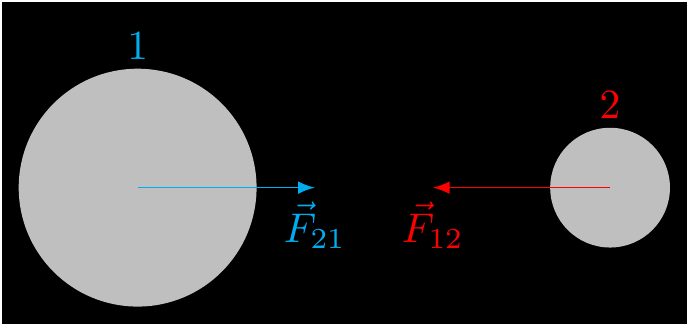
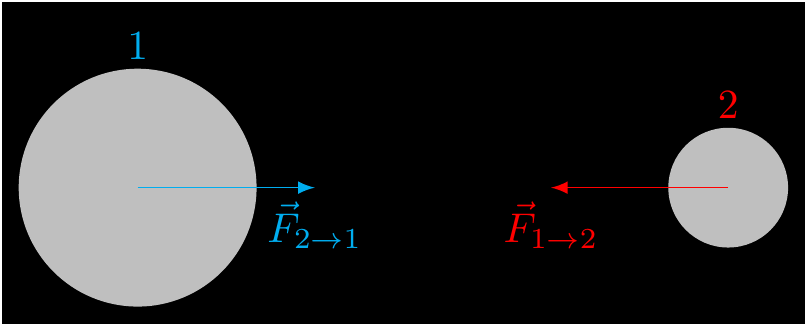
adding arrow notation

diff --git a/mechanics/actio-reactio/actio-reactio_inverted.tex b/mechanics/actio-reactio/actio-reactio_inverted.tex
@@ -14,11 +14,11 @@
 
 \begin{document}
 \begin{tikzpicture}[inverted,inverted]
-  \draw[gray!50,fill] (-2,0) circle (1)   coordinate (c1);
-  \draw[gray!50,fill] (+2,0) circle (0.5) coordinate (c2);
+  \draw[gray!50,fill] (-2.5,0) circle (1)   coordinate (c1);
+  \draw[gray!50,fill] (+2.5,0) circle (0.5) coordinate (c2);
   \node[blue,yshift=1.2cm] at (c1) {1};
   \node[red, yshift=0.7cm] at (c2) {2};
-  \draw[->,blue] (c1) -- ++(+1.5,0) node[below] {$\vec{F}_{21}$};
-  \draw[->,red]  (c2) -- ++(-1.5,0) node[below] {$\vec{F}_{12}$};
+  \draw[->,blue] (c1) -- ++(+1.5,0) node[below] {$\vec{F}_{2\to 1}$};
+  \draw[->,red]  (c2) -- ++(-1.5,0) node[below] {$\vec{F}_{1\to 2}$};
 \end{tikzpicture}
 \end{document}

diff --git a/mechanics/actio-reactio/actio-reactio.tex b/mechanics/actio-reactio/actio-reactio.tex
@@ -5,11 +5,11 @@
 
 \begin{document}
 \begin{tikzpicture}
-  \draw[gray!50,fill] (-2,0) circle (1)   coordinate (c1);
-  \draw[gray!50,fill] (+2,0) circle (0.5) coordinate (c2);
+  \draw[gray!50,fill] (-2.5,0) circle (1)   coordinate (c1);
+  \draw[gray!50,fill] (+2.5,0) circle (0.5) coordinate (c2);
   \node[blue,yshift=1.2cm] at (c1) {1};
   \node[red, yshift=0.7cm] at (c2) {2};
-  \draw[->,blue] (c1) -- ++(+1.5,0) node[below] {$\vec{F}_{21}$};
-  \draw[->,red]  (c2) -- ++(-1.5,0) node[below] {$\vec{F}_{12}$};
+  \draw[->,blue] (c1) -- ++(+1.5,0) node[below] {$\vec{F}_{2\to 1}$};
+  \draw[->,red]  (c2) -- ++(-1.5,0) node[below] {$\vec{F}_{1\to 2}$};
 \end{tikzpicture}
 \end{document}

diff --git a/mechanics.md b/mechanics.md
@@ -9,12 +9,12 @@
 
 \begin{document}
 \begin{tikzpicture}
-  \draw[gray!50,fill] (-2,0) circle (1)   coordinate (c1);
-  \draw[gray!50,fill] (+2,0) circle (0.5) coordinate (c2);
+  \draw[gray!50,fill] (-2.5,0) circle (1)   coordinate (c1);
+  \draw[gray!50,fill] (+2.5,0) circle (0.5) coordinate (c2);
   \node[blue,yshift=1.2cm] at (c1) {1};
   \node[red, yshift=0.7cm] at (c2) {2};
-  \draw[->,blue] (c1) -- ++(+1.5,0) node[below] {$\vec{F}_{21}$};
-  \draw[->,red]  (c2) -- ++(-1.5,0) node[below] {$\vec{F}_{12}$};
+  \draw[->,blue] (c1) -- ++(+1.5,0) node[below] {$\vec{F}_{2\to 1}$};
+  \draw[->,red]  (c2) -- ++(-1.5,0) node[below] {$\vec{F}_{1\to 2}$};
 \end{tikzpicture}
 \end{document}
 ~~~
@@ -833,12 +833,12 @@
 
 \begin{document}
 \begin{tikzpicture}[inverted,inverted]
-  \draw[gray!50,fill] (-2,0) circle (1)   coordinate (c1);
-  \draw[gray!50,fill] (+2,0) circle (0.5) coordinate (c2);
+  \draw[gray!50,fill] (-2.5,0) circle (1)   coordinate (c1);
+  \draw[gray!50,fill] (+2.5,0) circle (0.5) coordinate (c2);
   \node[blue,yshift=1.2cm] at (c1) {1};
   \node[red, yshift=0.7cm] at (c2) {2};
-  \draw[->,blue] (c1) -- ++(+1.5,0) node[below] {$\vec{F}_{21}$};
-  \draw[->,red]  (c2) -- ++(-1.5,0) node[below] {$\vec{F}_{12}$};
+  \draw[->,blue] (c1) -- ++(+1.5,0) node[below] {$\vec{F}_{2\to 1}$};
+  \draw[->,red]  (c2) -- ++(-1.5,0) node[below] {$\vec{F}_{1\to 2}$};
 \end{tikzpicture}
 \end{document}
 ~~~
